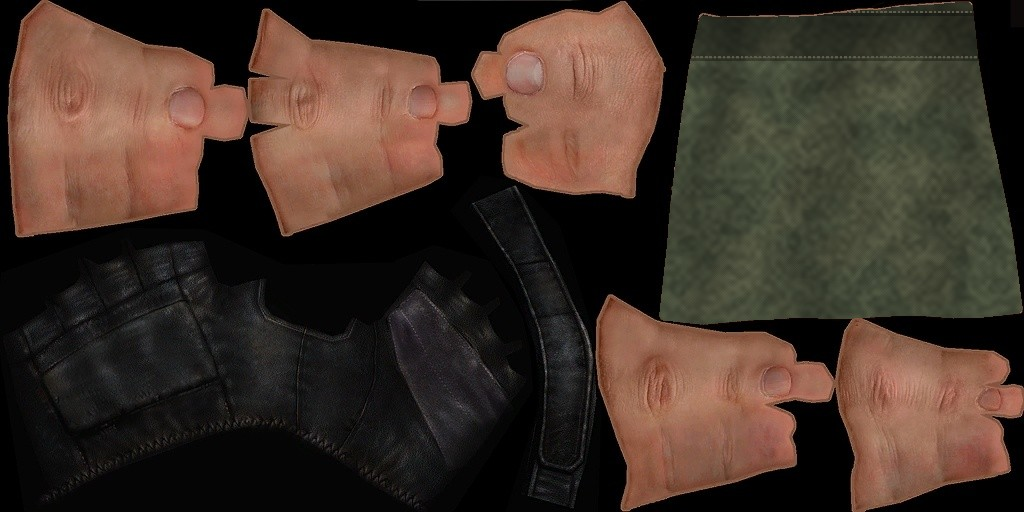
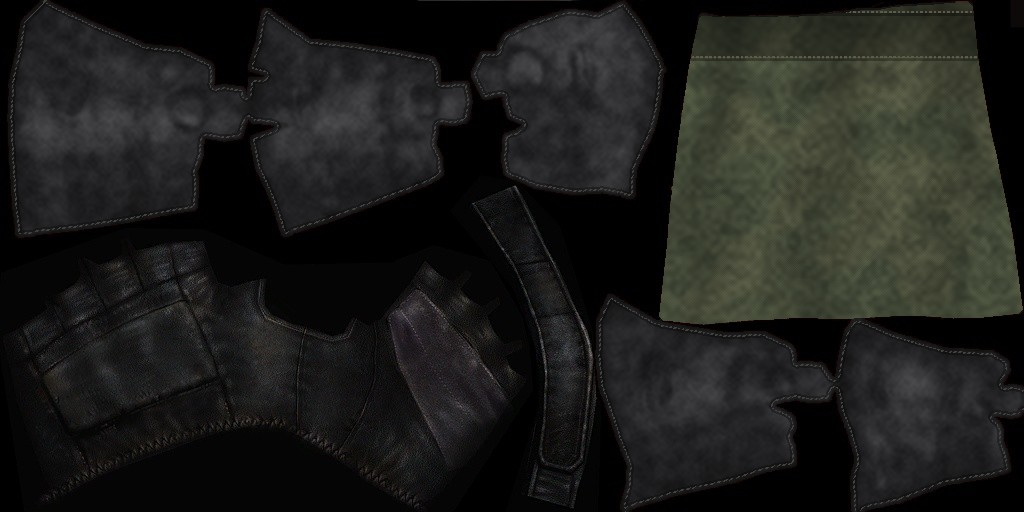
V0.26.0: MW3-style gloves, reload pattern and lighter gun inertia
Claude-Session: https://claude.ai/code/session_017ZnxAEm9RdDWkhRi9oQS2x

diff --git a/js/game.js b/js/game.js
@@ -1,26 +1,26 @@
 import * as THREE from 'three';
-import { MOD } from './supermod.js?v=0.25.6';
-import { canon } from './keybinds.js?v=0.25.6';
-import { WEAPONS, PRIMARIES, SECONDARIES, KNIVES, withAtt, cleanMask, CAMOS, randomMask } from './weapons.js?v=0.25.6';
-import { buildGun, makeEnv, camoQ } from './gunmodels.js?v=0.25.6';
-import { buildMap } from './maps.js?v=0.25.6';
-import { Colliders, NavGraph, GRAVITY, raySphere, rayAABB } from './physics.js?v=0.25.6';
-import { buildWorld } from './world.js?v=0.25.6';
-import { Bot } from './bots.js?v=0.25.6';
-import { makeRichtofen, richtofenReady } from './easter.js?v=0.25.6';
-import { buildSoldier, SKIN } from './soldier.js?v=0.25.6';
-import { animateSoldier, animateZombie, resetJoints } from './anim.js?v=0.25.6';
-import { Zombies, PERKS } from './zombies.js?v=0.25.6';
-import { BattleRoyale } from './br.js?v=0.25.6';
-import { inspectFor, inspectPose } from './inspect.js?v=0.25.6';
-import { Ragdoll, makeRagdoll } from './ragdoll.js?v=0.25.6';
-import { Progress, XP_REWARD, UNLOCK, rankName } from './progress.js?v=0.25.6';
-import { Objectives } from './objectives.js?v=0.25.6';
-import { Utilities } from './utils.js?v=0.25.6';
-import { Streaks, STREAKS } from './streaks.js?v=0.25.6';
-import { GoreX } from './gorex.js?v=0.25.6';
-import { armsReady, makeArms } from './arms.js?v=0.25.6';
-import { Gore } from './gore.js?v=0.25.6';
+import { MOD } from './supermod.js?v=0.26.0';
+import { canon } from './keybinds.js?v=0.26.0';
+import { WEAPONS, PRIMARIES, SECONDARIES, KNIVES, withAtt, cleanMask, CAMOS, randomMask } from './weapons.js?v=0.26.0';
+import { buildGun, makeEnv, camoQ } from './gunmodels.js?v=0.26.0';
+import { buildMap } from './maps.js?v=0.26.0';
+import { Colliders, NavGraph, GRAVITY, raySphere, rayAABB } from './physics.js?v=0.26.0';
+import { buildWorld } from './world.js?v=0.26.0';
+import { Bot } from './bots.js?v=0.26.0';
+import { makeRichtofen, richtofenReady } from './easter.js?v=0.26.0';
+import { buildSoldier, SKIN } from './soldier.js?v=0.26.0';
+import { animateSoldier, animateZombie, resetJoints } from './anim.js?v=0.26.0';
+import { Zombies, PERKS } from './zombies.js?v=0.26.0';
+import { BattleRoyale } from './br.js?v=0.26.0';
+import { inspectFor, inspectPose } from './inspect.js?v=0.26.0';
+import { Ragdoll, makeRagdoll } from './ragdoll.js?v=0.26.0';
+import { Progress, XP_REWARD, UNLOCK, rankName } from './progress.js?v=0.26.0';
+import { Objectives } from './objectives.js?v=0.26.0';
+import { Utilities } from './utils.js?v=0.26.0';
+import { Streaks, STREAKS } from './streaks.js?v=0.26.0';
+import { GoreX } from './gorex.js?v=0.26.0';
+import { armsReady, makeArms } from './arms.js?v=0.26.0';
+import { Gore } from './gore.js?v=0.26.0';
 
 const pick3 = (a) => a[Math.floor(Math.random() * a.length)];
 const V3 = THREE.Vector3;
@@ -1745,7 +1745,7 @@ export class Game {
     const av = clamp(spr('adsv', a, 18, 0.72), -0.03, 1.05);                      // the sights come up on a spring: a touch slower at the start, a hair of overshoot as they settle on the eye
     const ae = av + (av * av * (3 - 2 * av) - av) * 0.6;
     let x = lerp(hip[0], adsP[0], ae), y = lerp(hip[1], adsP[1], ae), z = lerp(hip[2], adsP[2], ae);
-    let rx = 0, ry = 0, rz = 0;
+    let rx = 0, ry = 0.04 * (1 - clamp(av, 0, 1)), rz = 0;                       // the hip-held gun is toed in a few degrees, muzzle towards the crosshair
     const free = 1 - a * 0.85;                                   // motion is damped while aiming
 
     // --- walk / idle -----------------------------------------------------------------------------
@@ -1757,14 +1757,14 @@ export class Game {
     }
     y += Math.sin(t * 1.6) * 0.0015 * (1 - walkF); x += Math.sin(t * 0.9) * 0.0008 * (1 - walkF);
     if (!p.onGround) { y += clamp(p.vel.y * 0.004, -0.03, 0.03) * free; rx += clamp(-p.vel.y * 0.006, -0.06, 0.06) * free; }
-    const land = spr('lnd', S.land, 15, 0.42);                                     // landing: dips, bounces back up past neutral and settles
+    const land = spr('lnd', S.land, 16, 0.55);                                     // landing: dips, bounces back up past neutral and settles
     y -= land * 0.055 * free; rx -= land * 0.11 * free; z += land * 0.01 * free;
     rz -= S.strafe * 0.05 * free; x -= S.strafe * 0.01 * free;
     const vF = clamp((-p.vel.x * Math.sin(p.yaw) - p.vel.z * Math.cos(p.yaw)) / 5, -1.4, 1.4);
     const aF = vF - spr('vf', vF, 8, 0.75), aS = S.strafe - spr('vs', S.strafe, 8, 0.75);      // acceleration = speed minus its lagging copy: the gun trails behind as you set off and lurches forward as you stop
     const vY = clamp(p.vel.y / 8, -1.5, 1.5), aY = clamp(vY - spr('vy', vY, 8, 0.75), -0.8, 0.8);      // jumping off sinks the gun a little, the drop at the top of the arc lifts it
-    y -= aY * 0.02 * free; rx -= aY * 0.035 * free;
-    const aFc = clamp(aF, -0.7, 0.7); z += aFc * 0.022 * free; rx += aFc * 0.038 * free; x -= aS * 0.02 * free; rz += aS * 0.07 * free; ry -= aS * 0.03 * free;
+    y -= aY * 0.01 * free; rx -= aY * 0.018 * free;
+    const aFc = clamp(aF, -0.7, 0.7); z += aFc * 0.01 * free; rx += aFc * 0.02 * free; x -= aS * 0.01 * free; rz += aS * 0.035 * free; ry -= aS * 0.015 * free;
 
     // --- sprint: gun dropped and swung across the body, arms pumping (2010-2015 style) ------------
     const sprint = spr('spn', S.sprint, 16, 0.62) * (1 - a);                    // sprung: the gun drops with a little weight and comes back up with a small overshoot
@@ -1802,7 +1802,7 @@ export class Game {
     if (S.cycle > 0 && vm.cls === 'sniper') { const pr = 1 - S.cycle; boltOpen = Math.sin(Math.PI * clamp((pr - 0.2) / 0.6, 0, 1)); }
     if (S.cycle > 0 && vm.cls === 'shotgun') { const pr = 1 - S.cycle; pumpBack = Math.sin(Math.PI * clamp((pr - 0.25) / 0.55, 0, 1)); }
     if (p.reloading) {
-      const tact = am.mag > 0 && vm.cls !== 'shotgun' && vm.cls !== 'sniper' && vm.id !== 'magnum';      // tactical reload (rounds left in the mag): the old mag is kept and stowed, no charging handle, a shorter animation
+      const tact = am.mag > 0 && vm.cls !== 'shotgun' && vm.cls !== 'sniper' && vm.id !== 'magnum';      // reload with rounds left in the mag: the old mag is still dropped, but there is no charging handle and the animation is shorter
       const ph = clamp((1 - p.reloadT / w.reload) / (tact ? 0.86 : 1), 0, 1), env = sm(0, 0.14, ph) * (1 - sm(0.86, 1, ph));
       const revolver = vm.id === 'magnum';
       let tilt = env, rk = 0;
@@ -1817,30 +1817,29 @@ export class Game {
         tilt = env * 0.9; if (ph > 0.74 && ph < 0.82) rk = 0.03; fT.grab = sm(0.3, 0.36, ph) * (1 - sm(0.56, 0.62, ph)); fT.charge = sm(0.12, 0.18, ph) * (1 - sm(0.22, 0.28, ph)) + sm(0.74, 0.78, ph) * (1 - sm(0.84, 0.88, ph));
       } else {
         hand = sm(0.02, 0.16, ph) * (1 - sm(0.72, 0.9, ph));
-        const pq = tact ? sm(0.2, 0.33, ph) * (1 - sm(0.46, 0.62, ph)) : sm(0.28, 0.4, ph) * (1 - sm(0.4, 0.62, ph));      // hand goes down to the pouch (carrying the old mag when it was only part empty), grabs a fresh mag and brings it up
+        const pq = sm(0.28, 0.4, ph) * (1 - sm(0.4, 0.62, ph));                        // hand goes down to the pouch, grabs a fresh mag and brings it up
         const D = vm.pistol ? 0.07 : 0.13;
         handDy = -D * pq; handDz = 0.03 * pq;
-        fT.grab = tact ? Math.max(sm(0.12, 0.18, ph) * (1 - sm(0.34, 0.38, ph)), sm(0.42, 0.47, ph) * (1 - sm(0.6, 0.65, ph))) : sm(0.36, 0.42, ph) * (1 - sm(0.6, 0.65, ph)); fT.release = sm(0.06, 0.1, ph) * (1 - sm(0.14, 0.18, ph)); fT.slap = sm(0.64, 0.67, ph) * (1 - sm(0.7, 0.74, ph));
+        fT.grab = sm(0.36, 0.42, ph) * (1 - sm(0.6, 0.65, ph)); fT.release = sm(0.06, 0.1, ph) * (1 - sm(0.14, 0.18, ph)); fT.slap = sm(0.64, 0.67, ph) * (1 - sm(0.7, 0.74, ph));
         if (vm.mags.length) {
           const drop = clamp((ph - 0.16) / 0.1, 0, 1);
           for (const e of vm.mags) {
             if (ph < 0.16) continue;
-            if (tact && ph < 0.36) { const pull = sm(0.16, 0.24, ph); e.m.position.y = e.p.y - D * pq - 0.04 * pull * (1 - pq) - 0.015 * pq; e.m.position.z = e.p.z + 0.03 * Math.max(pq, pull); }   // pulled out by hand and carried down to the vest
-            else if (!tact && ph < 0.26) { e.m.position.y = e.p.y - (drop * 0.06 + drop * drop * 0.4); e.m.position.z = e.p.z + drop * 0.03; }   // the old mag drops clean out of the well
-            else if (ph < (tact ? 0.42 : 0.4)) e.m.visible = false;
+            if (ph < 0.26) { e.m.position.y = e.p.y - (drop * 0.06 + drop * drop * 0.4); e.m.position.z = e.p.z + drop * 0.03; }   // the old mag drops clean out of the well
+            else if (ph < 0.4) e.m.visible = false;
             else { e.m.position.y = e.p.y - D * pq - 0.015 * pq; e.m.position.z = e.p.z + 0.03 * pq; }   // the fresh one rides up in the hand and is pushed into the well
           }
         }
         if (ph > 0.64 && ph < 0.72) rk = Math.sin(Math.PI * (ph - 0.64) / 0.08) * 0.035;         // mag slap
         if (ph > 0.8 && ph < 0.9 && !vm.pistol && !tact) { const cp = Math.sin(Math.PI * (ph - 0.8) / 0.1); handDz -= cp * 0.07; rk += 0.012; fT.charge = cp > 0.15 ? 1 : 0; }   // charging handle
         { const lift = Math.sin(Math.PI * clamp((ph - 0.14) / 0.1, 0, 1)), tug = Math.sin(Math.PI * clamp((ph - 0.73) / 0.08, 0, 1)), slp = Math.sin(Math.PI * clamp((ph - 0.64) / 0.08, 0, 1));
-          camT = slp * 0.006 + tug * 0.003 - lift * 0.003; rk += lift * (tact ? 0.006 : 0.02) - tug * 0.02 - pq * 0.05;                              // the old mag leaves and the gun lifts a hair; it dips while the hand is down at the pouch; a tug on the seated mag
+          camT = slp * 0.003 + tug * 0.0015 - lift * 0.0015; rk += lift * 0.02 - tug * 0.02 - pq * 0.05;                              // the old mag leaves and the gun lifts a hair; it dips while the hand is down at the pouch; a tug on the seated mag
           handDy -= tug * 0.012; sw.y -= slp * 0.008; sw.x -= pq * 0.012; }
         if (am.mag <= 0 && vm.slides.length) slideT = ph < 0.72 ? 1 : 1 - sm(0.72, 0.78, ph);   // slide drops when the mag seats
       }
       // the gun turns and dips for the reload but always stays well inside the frame (nudged up and pushed away from the camera)
       const k = revolver ? 1.3 : vm.pistol ? 0.8 : 1;
-      sw.y += tilt * (vm.pistol ? 0.07 : 0.05); sw.x -= tilt * 0.03 * k; sw.z -= tilt * 0.05; sw.rz += tilt * (revolver ? 0.6 : 0.38) * k * (1 - a); sw.rx += (-tilt * 0.22 * k + rk) * (1 - a * 0.7); sw.ry += tilt * 0.15 * k;
+      sw.y += tilt * (vm.pistol ? 0.07 : 0.05); sw.x -= tilt * 0.03 * k; sw.z -= tilt * 0.05; sw.rz += tilt * (revolver ? 0.6 : vm.pistol ? 0.38 : 0.46) * k * (1 - a); sw.rx += (-tilt * 0.22 * k + rk) * (1 - a * 0.7); sw.ry += tilt * 0.15 * k;
     }
     this.camBump = spr('cb', camT, 24, 0.5);
     // sliding: gun canted and low; mantling: gun pushed down and out of the way while you climb

diff --git a/js/main.js b/js/main.js
@@ -1,25 +1,25 @@
-import { Game, MODES, mpMode } from './game.js?v=0.25.6';
-import { Net, cleanCode, cleanName } from './net.js?v=0.25.6';
-import { UTILS, UTIL_IDS } from './utils.js?v=0.25.6';
-import { watchForEgg, watchWord } from './easter.js?v=0.25.6';
-import { Azam } from './azam.js?v=0.25.6';
-import { HUD, XH_STYLES, cleanXh, styleCrosshair } from './hud.js?v=0.25.6';
-import { Sound } from './audio.js?v=0.25.6';
-import { WEAPONS, PRIMARIES, SECONDARIES, weaponStats, withAtt, KNIVES, CAMOS, cleanMask, migrateOldMask, camoOf, attList, skinOf, SKINS, RARITY } from './weapons.js?v=0.25.6';
-import { loadArms } from './arms.js?v=0.25.6';
-import { loadModels, tickCamos } from './gunmodels.js?v=0.25.6';
-import { loadProps } from './props.js?v=0.25.6';
-import { MAP_IDS, MAP_INFO, ZM_MAPS } from './maps.js?v=0.25.6';
-import { rankName, UNLOCK, gunPrice } from './progress.js?v=0.25.6';
-import { initMapMaker } from './mapmaker.js?v=0.25.6';
-import { RaceMode } from './race.js?v=0.25.6';
-import { initSupermod, MOD } from './supermod.js?v=0.25.6';
-import { initKeybinds } from './keybinds.js?v=0.25.6';
-import { Gunsmith } from './gunsmith.js?v=0.25.6';
-import { SkinsUI } from './skinsui.js?v=0.25.6';
-import { WeaponPreview } from './wpreview.js?v=0.25.6';
-import { initTouch, blockZoom } from './touch.js?v=0.25.6';
-import { initGamepad } from './gamepad.js?v=0.25.6';
+import { Game, MODES, mpMode } from './game.js?v=0.26.0';
+import { Net, cleanCode, cleanName } from './net.js?v=0.26.0';
+import { UTILS, UTIL_IDS } from './utils.js?v=0.26.0';
+import { watchForEgg, watchWord } from './easter.js?v=0.26.0';
+import { Azam } from './azam.js?v=0.26.0';
+import { HUD, XH_STYLES, cleanXh, styleCrosshair } from './hud.js?v=0.26.0';
+import { Sound } from './audio.js?v=0.26.0';
+import { WEAPONS, PRIMARIES, SECONDARIES, weaponStats, withAtt, KNIVES, CAMOS, cleanMask, migrateOldMask, camoOf, attList, skinOf, SKINS, RARITY } from './weapons.js?v=0.26.0';
+import { loadArms } from './arms.js?v=0.26.0';
+import { loadModels, tickCamos } from './gunmodels.js?v=0.26.0';
+import { loadProps } from './props.js?v=0.26.0';
+import { MAP_IDS, MAP_INFO, ZM_MAPS } from './maps.js?v=0.26.0';
+import { rankName, UNLOCK, gunPrice } from './progress.js?v=0.26.0';
+import { initMapMaker } from './mapmaker.js?v=0.26.0';
+import { RaceMode } from './race.js?v=0.26.0';
+import { initSupermod, MOD } from './supermod.js?v=0.26.0';
+import { initKeybinds } from './keybinds.js?v=0.26.0';
+import { Gunsmith } from './gunsmith.js?v=0.26.0';
+import { SkinsUI } from './skinsui.js?v=0.26.0';
+import { WeaponPreview } from './wpreview.js?v=0.26.0';
+import { initTouch, blockZoom } from './touch.js?v=0.26.0';
+import { initGamepad } from './gamepad.js?v=0.26.0';
 
 const $ = (id) => document.getElementById(id);
 

diff --git a/js/arms.js b/js/arms.js
@@ -1,7 +1,7 @@
 // First-person arms: the rigged arms + gloved hands model (assets/models/arms.json, baked by tools/bake-arms.py from arms.fbx).
 // js/armrig.js poses the forearm / hand / finger bones for the gun, this file wraps the result in a three.js SkinnedMesh.
 import * as THREE from 'three';
-import { ArmRig, placeHands, SHOULDER } from './armrig.js?v=0.25.6';
+import { ArmRig, placeHands, SHOULDER } from './armrig.js?v=0.26.0';
 
 let data = null, geo = null, mat = null, loading = null;
 const b64 = (s, Type) => { const bin = atob(s), u8 = new Uint8Array(bin.length); for (let i = 0; i < bin.length; i++) u8[i] = bin.charCodeAt(i); return new Type(u8.buffer); };
@@ -11,7 +11,7 @@ export function loadArms() {
   if (geo) return Promise.resolve(true);
   if (loading) return loading;
   if (!THREE.SkinnedMesh || !THREE.Skeleton || !THREE.Bone || !THREE.Matrix4) return Promise.resolve(false);
-  loading = fetch('assets/models/arms.json?v=0.25.6').then((r) => { if (!r.ok) throw new Error(r.status); return r.json(); }).then((j) => {
+  loading = fetch('assets/models/arms.json?v=0.26.0').then((r) => { if (!r.ok) throw new Error(r.status); return r.json(); }).then((j) => {
     data = j;
     const g = new THREE.BufferGeometry();
     g.setAttribute('position', new THREE.BufferAttribute(b64(j.pos, Float32Array), 3));
@@ -20,7 +20,7 @@ export function loadArms() {
     g.setAttribute('skinIndex', new THREE.BufferAttribute(b64(j.si, Uint16Array), 4));
     g.setAttribute('skinWeight', new THREE.BufferAttribute(b64(j.sw, Float32Array), 4));
     g.setIndex(new THREE.BufferAttribute(b64(j.idx, Uint16Array), 1));
-    const t = new THREE.TextureLoader().load('assets/models/v_hands.jpg?v=0.25.6'); if (THREE.SRGBColorSpace) t.colorSpace = THREE.SRGBColorSpace;
+    const t = new THREE.TextureLoader().load('assets/models/v_hands.jpg?v=0.26.0'); if (THREE.SRGBColorSpace) t.colorSpace = THREE.SRGBColorSpace;
     mat = new THREE.MeshStandardMaterial({ map: t, roughness: 0.85, metalness: 0, side: THREE.DoubleSide });
     geo = g;
     return true;

diff --git a/index.html b/index.html
@@ -9,7 +9,7 @@
 <meta name="theme-color" content="#0b0f14">
 <title>IRON STRIKE - 3D Tactical Shooter</title>
 <meta name="description" content="A free browser-based 3D first-person shooter with 4 maps, Team Deathmatch, 1v1 and Free-For-All, and 8 weapons. Built with Three.js.">
-<link rel="stylesheet" href="css/style.css?v=0.25.6">
+<link rel="stylesheet" href="css/style.css?v=0.26.0">
 <div id="sm" class="sm hidden"><div class="sm-box"><h2>SUPERMOD</h2><p class="hint">Secret mod menu. Pick your mods, then choose how long they last.</p><div id="smList" class="sm-list"></div><button id="smMax" class="btn" type="button">MAX RANK NOW</button><p id="smNote" class="sm-note"></p><div class="sm-foot"><button id="smSession" class="btn primary" type="button">APPLY - UNTIL GAME CLOSES</button><button id="smPerm" class="btn primary" type="button">APPLY - PERMANENT</button></div><div class="sm-foot"><button id="smReset" class="btn" type="button">RESET ALL</button><button id="smClose" class="btn" type="button">CLOSE</button></div></div></div>
 <div id="kb" class="kb hidden"><div class="kb-box"><h2>KEYBINDS</h2><p class="hint">Click a key, then press the new one. Backspace = back to default, Esc = cancel. Mouse: LMB fire, RMB aim.</p><div id="kbList" class="kb-list"></div><div class="kb-foot"><button id="kbReset" class="btn" type="button">RESET ALL</button><button id="kbClose" class="btn primary" type="button">DONE</button></div></div></div>
 <div id="gs" class="gs hidden" tabindex="-1">
@@ -336,7 +336,7 @@
 </div>
 
 <div id="loaderr" class="hidden"></div>
-<script type="module" src="js/main.js?v=0.25.6"></script>
+<script type="module" src="js/main.js?v=0.26.0"></script>
 <div id="gfxVig"></div>
 <div id="sunRays"><i class="sr-glow"></i><i class="sr-rays"></i><i class="sr-rays r2"></i></div>
 <div id="fpsBox" class="hidden" style="position:fixed;top:6px;right:8px;z-index:60;font:12px monospace;color:#9f9;background:#0008;padding:2px 6px;pointer-events:none"></div>

diff --git a/js/gunmodels.js b/js/gunmodels.js
@@ -1,7 +1,7 @@
 import * as THREE from 'three';
-import { getSlot, camoOf, skinOf, SKINS } from './weapons.js?v=0.25.6';
-import { makeReal } from './realguns.js?v=0.25.6';
-import { skinKit } from './skinkits.js?v=0.25.6';
+import { getSlot, camoOf, skinOf, SKINS } from './weapons.js?v=0.26.0';
+import { makeReal } from './realguns.js?v=0.26.0';
+import { skinKit } from './skinkits.js?v=0.26.0';
 
 // ------------------------------------------------------------------------------------------------
 // Gun models.
@@ -13,7 +13,7 @@ import { skinKit } from './skinkits.js?v=0.25.6';
 // ------------------------------------------------------------------------------------------------
 
 export const MODEL_DATA = {};
-const MODEL_VER = '0.25.6';        // bump when an assets/models/*.json changes so browsers don't keep the old copy
+const MODEL_VER = '0.26.0';        // bump when an assets/models/*.json changes so browsers don't keep the old copy
 
 export async function loadModels(weapons) {
   const jobs = [];

diff --git a/js/gunsmith.js b/js/gunsmith.js
@@ -1,8 +1,8 @@
 // COD-style Gunsmith: a full-screen overlay with the gun in the middle, one box per attachment slot around it, a pick list with the
 // trade-offs of every option, and the weapon stats (with numbers) updating live as you swap parts.
-import { WEAPONS, SLOTS, ATT, CAMOS, camoReqText, withAtt, weaponStats, cleanMask, getSlot, setSlot, setCamo, camoOf, attList } from './weapons.js?v=0.25.6';
-import { WeaponPreview } from './wpreview.js?v=0.25.6';
-import { camoSwatch, decal } from './gunmodels.js?v=0.25.6';
+import { WEAPONS, SLOTS, ATT, CAMOS, camoReqText, withAtt, weaponStats, cleanMask, getSlot, setSlot, setCamo, camoOf, attList } from './weapons.js?v=0.26.0';
+import { WeaponPreview } from './wpreview.js?v=0.26.0';
+import { camoSwatch, decal } from './gunmodels.js?v=0.26.0';
 
 const $ = (id) => document.getElementById(id);
 const mk = (tag, cls, text) => { const x = document.createElement(tag); if (cls) x.className = cls; if (text != null) x.textContent = text; return x; };

diff --git a/js/zmworld.js b/js/zmworld.js
@@ -1,8 +1,8 @@
 // Zombies mode: everything you see on the Outpost map besides the walls - barricades, doors, wall guns, perk machines,
 // the Mystery Box, Pack-a-Punch and power-ups. Pure visuals (the rules live in zombies.js). Built from boxes/canvas textures.
 import * as THREE from 'three';
-import { WEAPONS } from './weapons.js?v=0.25.6';
-import { buildGun } from './gunmodels.js?v=0.25.6';
+import { WEAPONS } from './weapons.js?v=0.26.0';
+import { buildGun } from './gunmodels.js?v=0.26.0';
 
 const stdMat = (color, o = {}) => new THREE.MeshStandardMaterial({ color, roughness: o.rough ?? 0.8, metalness: o.metal ?? 0.1, emissive: o.emissive ?? 0x000000, emissiveIntensity: o.ei ?? 1, map: o.map || null });
 const bxm = (w, h, d, mat, x, y, z, parent) => { const m = new THREE.Mesh(new THREE.BoxGeometry(w, h, d), mat); m.position.set(x, y, z); m.castShadow = false; parent.add(m); return m; };

diff --git a/js/net.js b/js/net.js
@@ -7,9 +7,9 @@
 //
 // Hits are resolved by the host with lag compensation (targets are rewound to what the shooter saw).
 // Movement is client-trusted, so this is meant for playing with friends, not for ranked play.
-import { MODES, MAX_PLAYERS, mpMode } from './game.js?v=0.25.6';
-import { MAP_IDS, MAP_INFO, ZM_MAPS } from './maps.js?v=0.25.6';
-import { WEAPONS, PRIMARIES, SECONDARIES, cleanMask } from './weapons.js?v=0.25.6';
+import { MODES, MAX_PLAYERS, mpMode } from './game.js?v=0.26.0';
+import { MAP_IDS, MAP_INFO, ZM_MAPS } from './maps.js?v=0.26.0';
+import { WEAPONS, PRIMARIES, SECONDARIES, cleanMask } from './weapons.js?v=0.26.0';
 
 const PEER_URL = 'https://cdn.jsdelivr.net/npm/peerjs@1.5.4/dist/peerjs.min.js';
 const PREFIX = 'ironstrike-v1-';

diff --git a/js/zombies.js b/js/zombies.js
@@ -6,8 +6,8 @@
 //  - the match ends when every player is down or dead
 // The host (or the offline player) runs everything; clients mirror the state from 'zs' snapshots and 'z*' events.
 import * as THREE from 'three';
-import { WEAPONS, withAtt } from './weapons.js?v=0.25.6';
-import { buildWindow, setBoards, buildDoor, buildBuy, buildMachine, buildBox, buildPap, gunDisplay, buildPowerup, label, setLabel, POWERUPS } from './zmworld.js?v=0.25.6';
+import { WEAPONS, withAtt } from './weapons.js?v=0.26.0';
+import { buildWindow, setBoards, buildDoor, buildBuy, buildMachine, buildBox, buildPap, gunDisplay, buildPowerup, label, setLabel, POWERUPS } from './zmworld.js?v=0.26.0';
 
 const V3 = THREE.Vector3;
 const rand = (a, b) => a + Math.random() * (b - a);

diff --git a/js/br.js b/js/br.js
@@ -2,8 +2,8 @@
 // random attachments, armour plates and medkits, loot the players you kill, and stay inside the storm circle that keeps shrinking.
 // Last one alive wins. Offline: you + 19 bots.
 import * as THREE from 'three';
-import { WEAPONS, PRIMARIES, SECONDARIES, randomMask, withAtt, attList } from './weapons.js?v=0.25.6';
-import { ISLE_TOWNS } from './maps.js?v=0.25.6';
+import { WEAPONS, PRIMARIES, SECONDARIES, randomMask, withAtt, attList } from './weapons.js?v=0.26.0';
+import { ISLE_TOWNS } from './maps.js?v=0.26.0';
 
 const V3 = THREE.Vector3, rand = (a, b) => a + Math.random() * (b - a), pick = (a) => a[Math.floor(Math.random() * a.length)], clamp = (v, a, b) => Math.max(a, Math.min(b, v));
 export const RARITY = [

diff --git a/js/race.js b/js/race.js
@@ -1,8 +1,8 @@
 // Dirt Bike Race: a gun-free racing mode. Rendering, input and HUD live here; the simulation is in race-core.js.
 import * as THREE from 'three';
-import { makeEnv } from './gunmodels.js?v=0.25.6';
-import { RaceSim, HW, VMAX } from './race-core.js?v=0.25.6';
-import { RaceNet, COLOR_NAMES, MAX_HUMANS, MAX_RIDERS } from './racenet.js?v=0.25.6';
+import { makeEnv } from './gunmodels.js?v=0.26.0';
+import { RaceSim, HW, VMAX } from './race-core.js?v=0.26.0';
+import { RaceNet, COLOR_NAMES, MAX_HUMANS, MAX_RIDERS } from './racenet.js?v=0.26.0';
 
 const clamp = (v, a, b) => Math.max(a, Math.min(b, v));
 const wrap = (a) => { const T = Math.PI * 2; a %= T; if (a > Math.PI) a -= T; if (a < -Math.PI) a += T; return a; };

diff --git a/js/gamepad.js b/js/gamepad.js
@@ -3,7 +3,7 @@
 //             LB use (zombies) / inspect - RB killstreak - D-pad killstreaks (up UAV, left sentry, right airstrike), down scoreboard - R3 camera view
 //             Select scoreboard (hold) - Start pause / resume
 //   Menus:    left stick or D-pad moves the highlight, A selects, B goes back, left / right on a slider changes it.
-import { STREAKS } from './streaks.js?v=0.25.6';
+import { STREAKS } from './streaks.js?v=0.26.0';
 
 const DEAD = 0.14, LOOK_RATE = 2.9;         // rad/s at full right-stick deflection (x sensitivity setting)
 const curve = (v) => { const a = Math.abs(v); if (a < DEAD) return 0; const t = (a - DEAD) / (1 - DEAD); return Math.sign(v) * t * (0.35 + 0.65 * t); };
